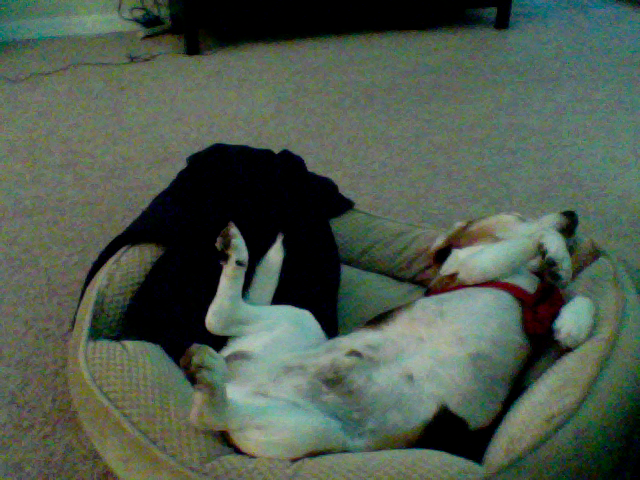
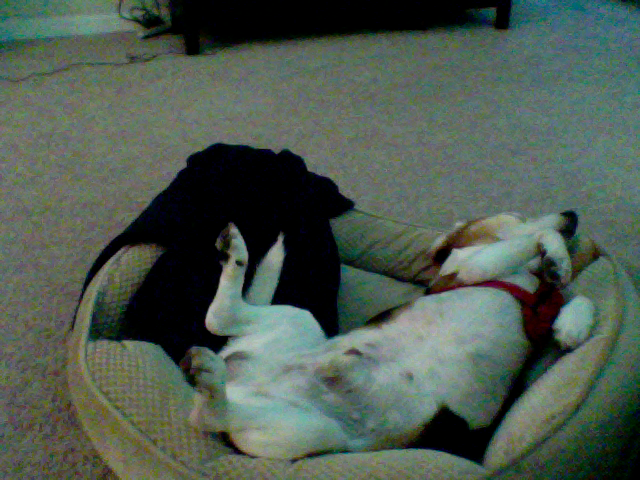
update at Month05Day12Time12:44

Changed region(s): [[0.0, 0.0, 1.0, 1.0], [0.6562, 0.6875, 0.6875, 0.7188], [0.4688, 0.6562, 0.5, 0.6875]]

diff --git a/index.html b/index.html
@@ -40,7 +40,7 @@
       <div class="row">
         <div class="col-md-4">
 	<p>This picture was updated at Month05Day12Time12:44</p>
-		<img src="8_pic.png" />
+		<img src="7_pic.png" />
         </div>
       </div>
 
